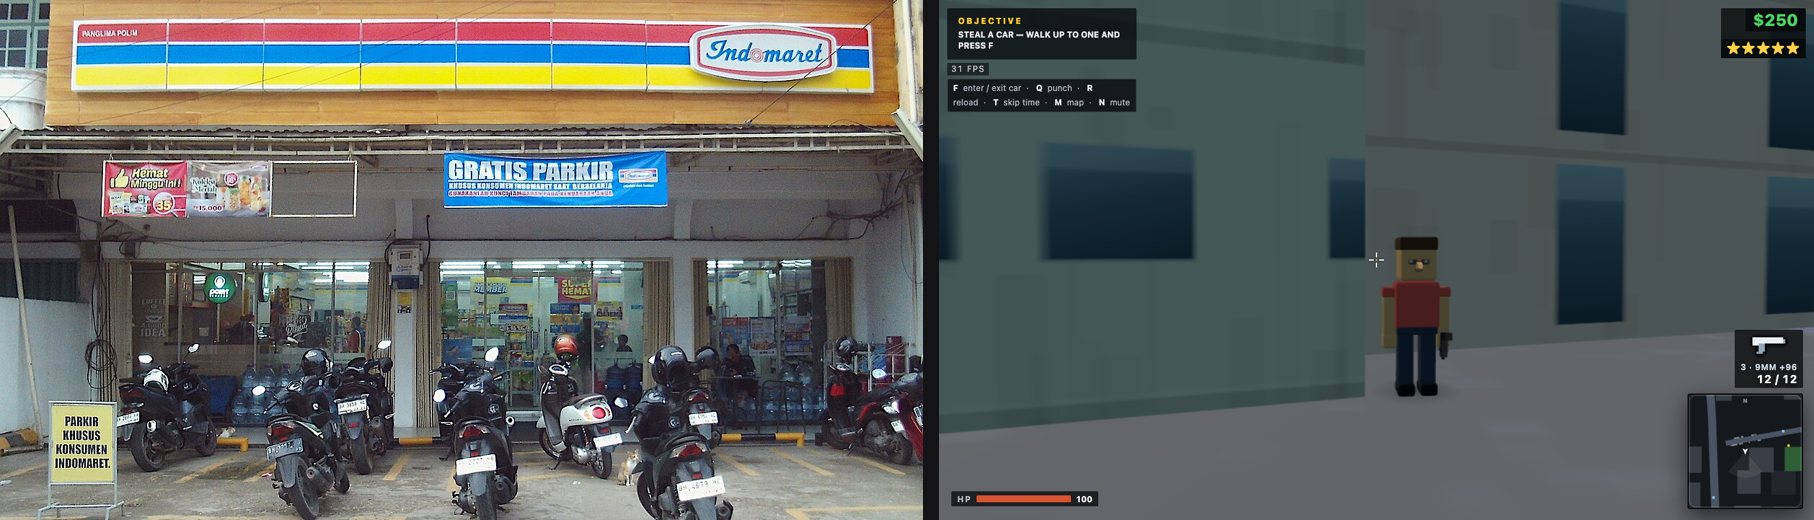
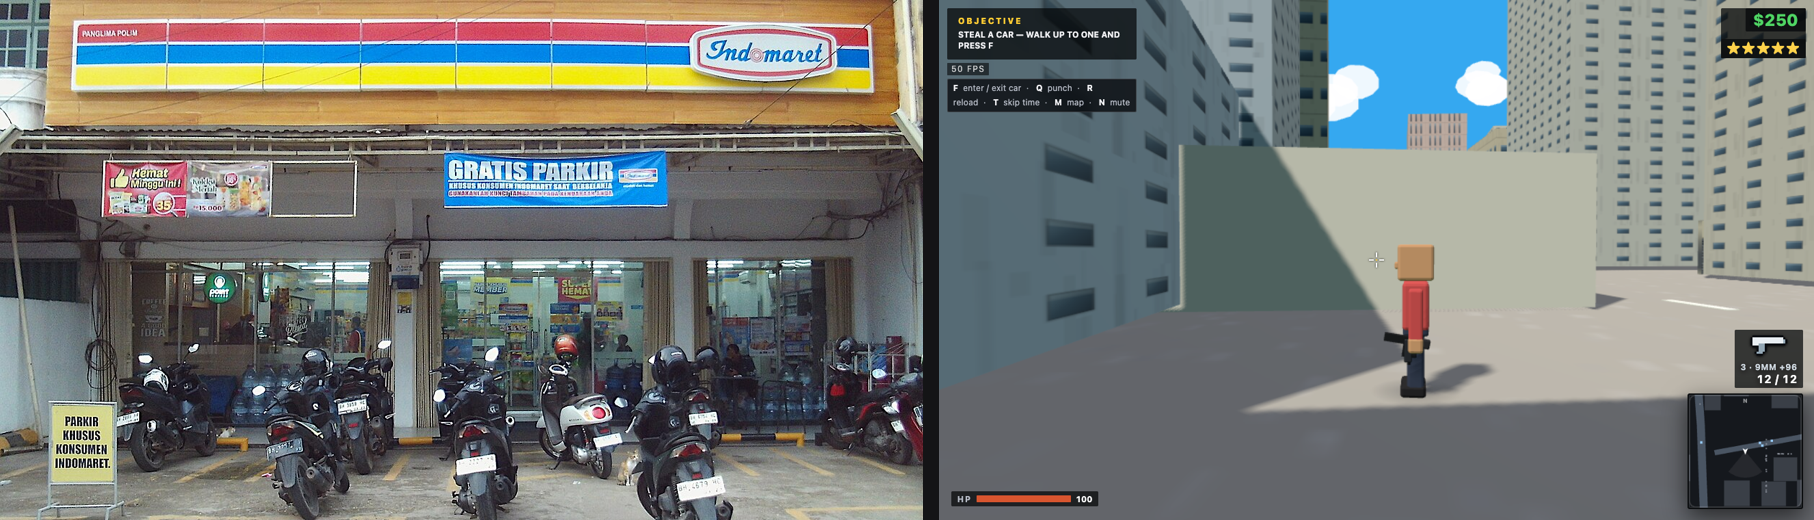
fix(world): the minimarket stands on a fixed site, facing the spawn street
Five attempts at automatic placement put this storefront inside a block or facing a wall. It is now placed by hand 22 m up the spawn street facing back at the player, which is the frame that finally shows it: three-band fascia with INDOMERET, blue GRATIS PARKIR banner, glass shopfront on dark mullions, yellow kerb, with the TransJakarta bus, the viaduct and a tower behind.

Verified in the side-by-side: reference photo left, render right. Next: a police post and a restaurant built the same way, and only moved onto automatic placement once each has been photographed on a fixed site.

diff --git a/src/world/city.ts b/src/world/city.ts
@@ -914,13 +914,12 @@ export class City {
         this.placeOnGround(g, spot.x, spot.z);
       }
     }
-    for (const poi of POIS) {
-      if (poi.kind !== 'minimarket') continue;
-      const spot = this.snapToVerge(poi.x, poi.z - 26);
-      if (!spot) continue;
-      const g = buildMinimarket(ctx, spot.x, spot.z, spot.yaw + Math.PI, poi.name);
-      this.placeOnGround(g, spot.x, spot.z);
-    }
+    // One minimarket on a fixed, verifiable site: 22 m up the spawn street, facing back at the
+    // player. Automatic placement put this asset in the wrong place five times, so the first one
+    // is placed by hand and photographed before anything else uses snapToVerge.
+    const sp = this.getSpawn();
+    const mg = buildMinimarket(ctx, sp.x, sp.z + 22, Math.PI, 'INDOMERET');
+    this.placeOnGround(mg, sp.x, sp.z + 22);
 
     const kemang = POIS.find((p) => p.kind === 'minimarket');
     if (kemang) {
